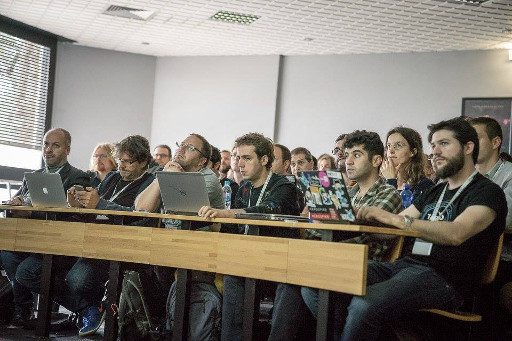
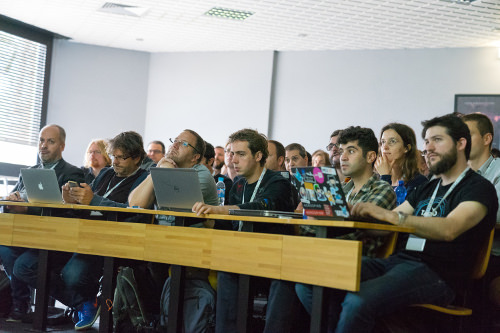
New images

diff --git a/app/views/Application/cfp.html b/app/views/Application/cfp.html
@@ -120,7 +120,7 @@
             <div class="hidden-xs hidden-sm talk-photos talk-photos--RedHat">
                 <img class="col-md-4 talk-photo talk-photo" src="@{'/public/images/illustrations/cfp_atelier_4.jpg'}"/>
                 <img class="col-md-4 talk-photo talk-photo" src="@{'/public/images/illustrations/cfp_atelier_2.jpg'}"/>
-                <img class="col-md-4 talk-photo talk-photo" src="@{'/public/images/illustrations/cfp_atelier_3.jpg'}"/>
+                <img class="col-md-4 talk-photo talk-photo" src="@{'/public/images/illustrations/cfp_atelier_5.jpg'}"/>
             </div>
             <div class="clearfix"></div>
         </div>
